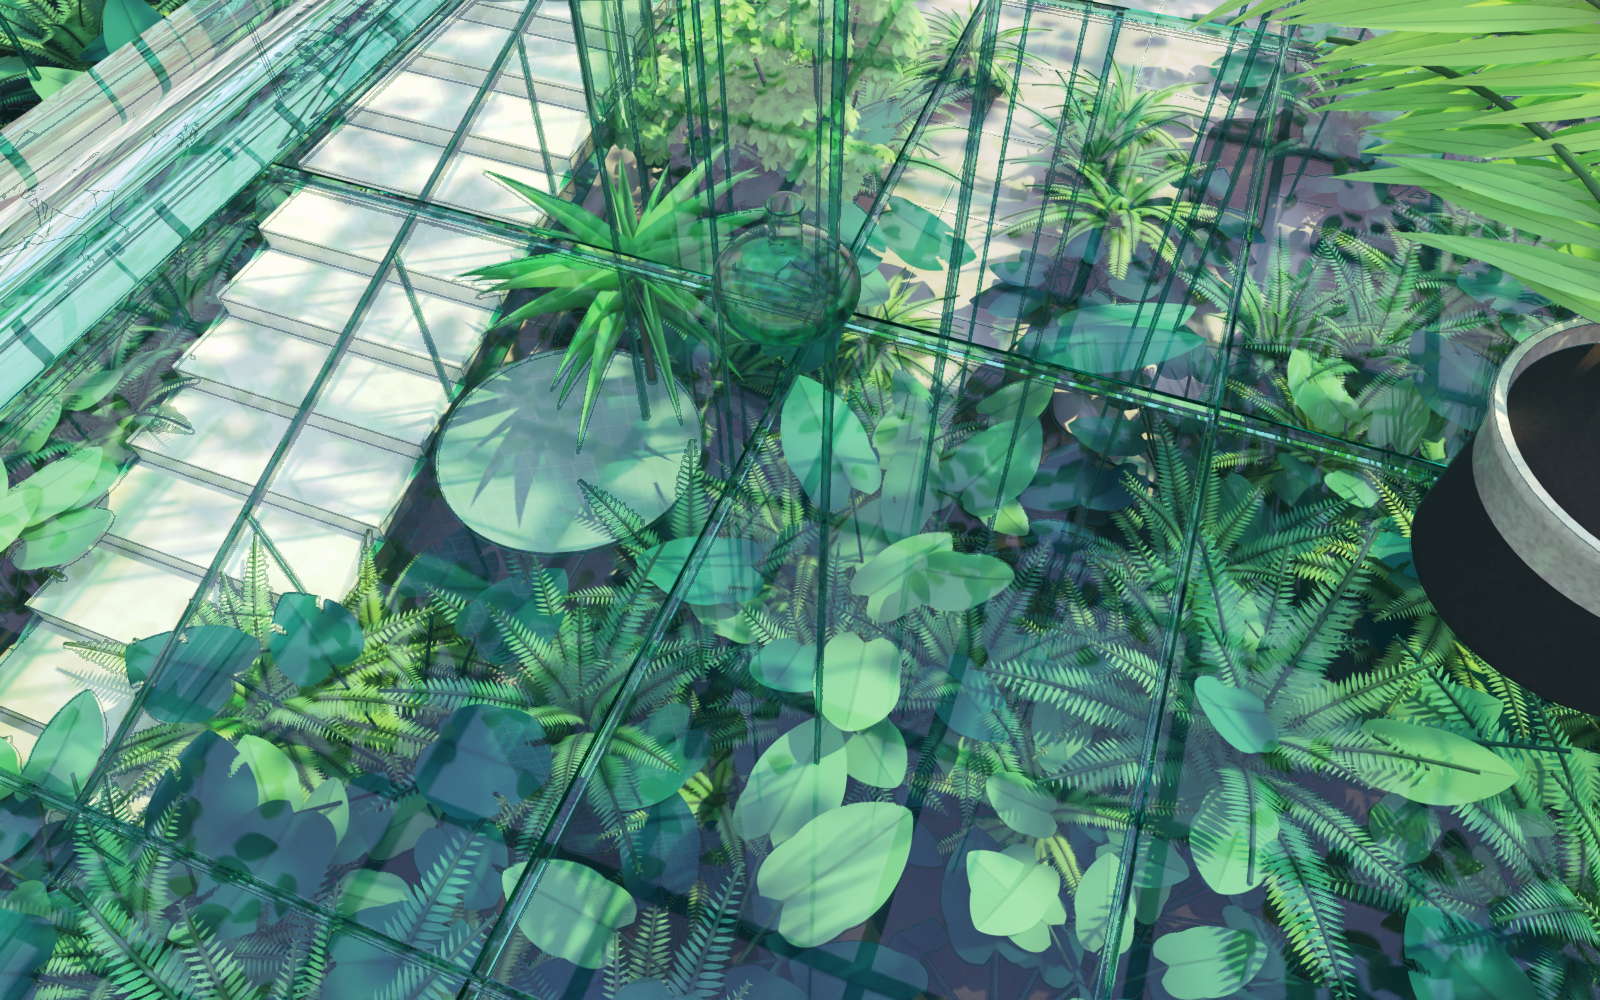
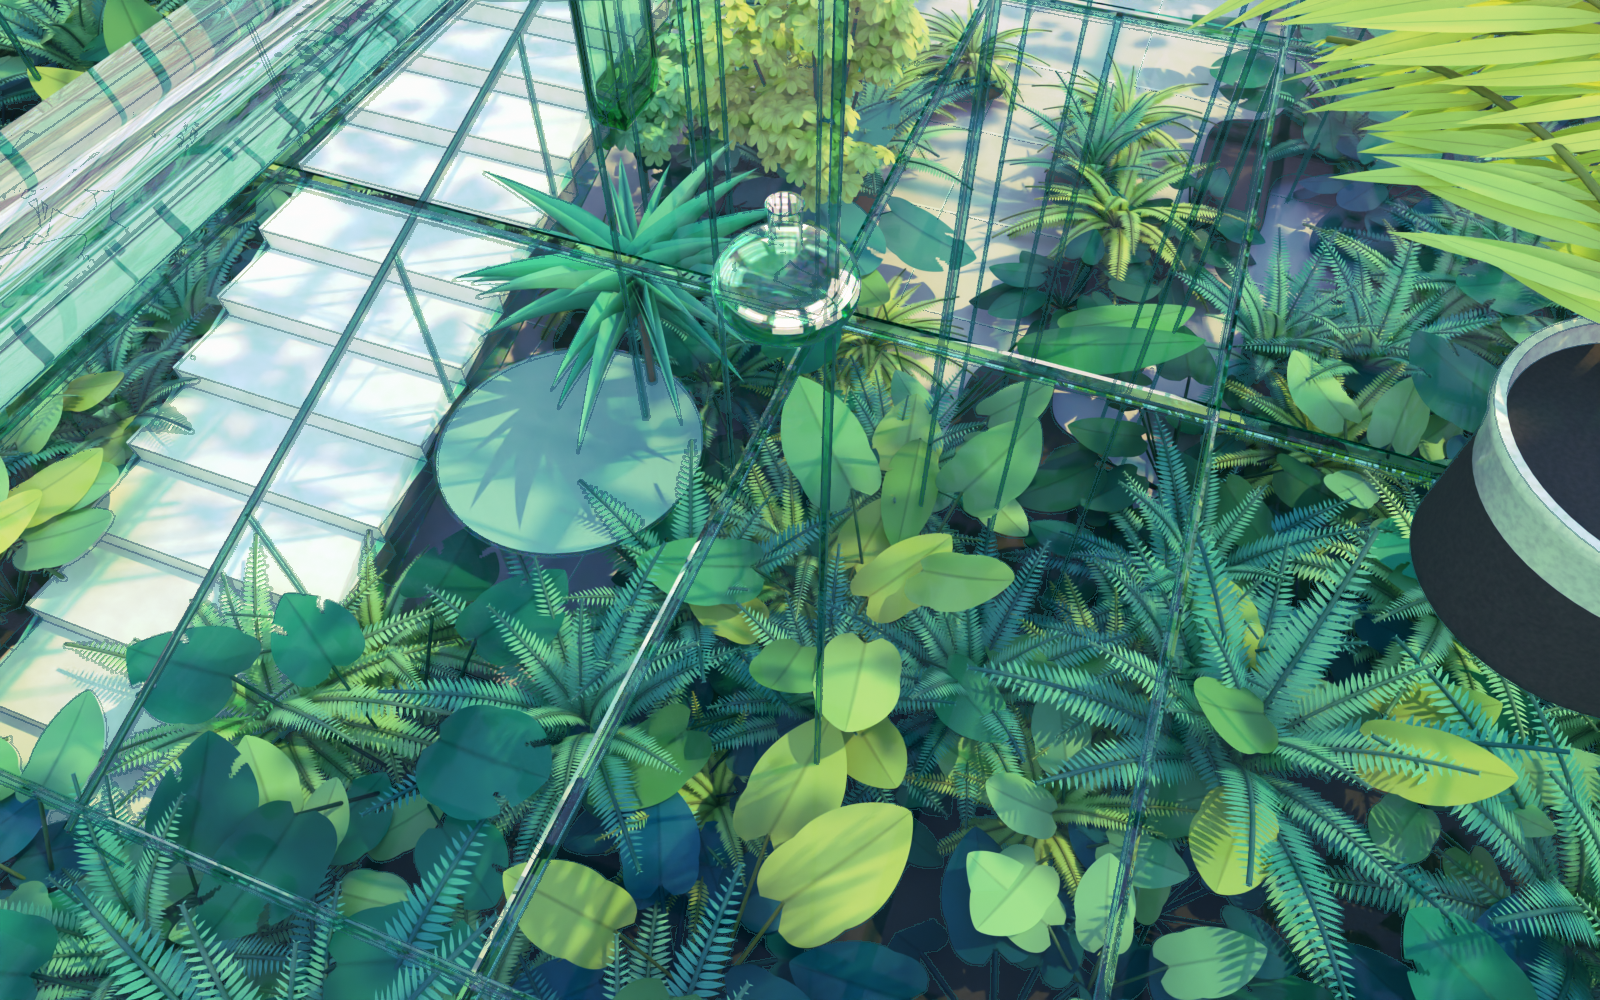
玻璃中庭：向阳黄绿叶与器皿光泽版全分辨率重渲与说明

diff --git a/Other/Greenhouse/Scenes/GlassAtrium/README.md b/Other/Greenhouse/Scenes/GlassAtrium/README.md
@@ -195,11 +195,16 @@ blender -b -P Other/Greenhouse/Scenes/GlassAtrium/calibration/layout_search.py -
 | 指标 | 值 |
 |------|----|
 | 结构线对齐（玻璃框架与楼梯的轮廓，逐像素到原画边缘的距离） | 中位数 2.2 px；2 px 内 47.0%，4 px 内 65.0%，8 px 内 86.3% |
-| 逐像素平均绝对误差（sRGB 0–1） | 0.180 |
-| 色调误差（1/60 画宽高斯模糊后，只看颜色与明暗分布） | 0.080 |
-| 分带分位数误差（五条横带各自从暗部到高光的 CIELAB 分布） | 0.051 |
-| 模糊后色差 ΔE*ab | 中位数 12.5，90% 分位 25.0 |
-| 标定历程（色调误差） | 初版 0.178 → 远景烟霭 0.122 → 灯光反解 0.114 → 玻璃对漫射光透明、日光组、分带色阶 0.109 → 种植图先验土面、屋顶藤蔓日影、烟霭粉色环境光、散尾葵背向机位、方瓶内腔修正 0.088 → 金黄阳光、城市地面铺到 6 km、薄玻璃反弹上限、吊球石床 0.086 → 布局搜索（种子、挪动、朝向、尺寸、日向）、墨线按画面线宽、方瓶穹顶肩、封闭踏步，玻璃改为数据行（翡翠玻璃框架、晶质器皿色散、不镀膜反射）、按目标选强度的调色 0.080 |
+| 逐像素平均绝对误差（sRGB 0–1） | 0.181 |
+| 色调误差（1/60 画宽高斯模糊后，只看颜色与明暗分布） | 0.084 |
+| 分带分位数误差（五条横带各自从暗部到高光的 CIELAB 分布） | 0.044 |
+| 植物的亮度分布（L 的 10/25/50/75/90% 分位，四分之一尺寸） | 30/42/56/71/81，原画 27/37/52/72/85；L > 70 的向阳叶 26%，原画 27% |
+| 模糊后色差 ΔE*ab | 中位数 13.1，90% 分位 24.8 |
+| 标定历程（色调误差） | 初版 0.178 → 远景烟霭 0.122 → 灯光反解 0.114 → 玻璃对漫射光透明、日光组、分带色阶 0.109 → 种植图先验土面、屋顶藤蔓日影、烟霭粉色环境光、散尾葵背向机位、方瓶内腔修正 0.088 → 金黄阳光、城市地面铺到 6 km、薄玻璃反弹上限、吊球石床 0.086 → 布局搜索（种子、挪动、朝向、尺寸、日向）、墨线按画面线宽、方瓶穹顶肩、封闭踏步，玻璃改为数据行（翡翠玻璃框架、晶质器皿色散、不镀膜反射）、按目标选强度的调色 0.080 → 器皿反射探针、厚壁瓶绿方瓶、烟霭只作背景、向阳叶逐株拟合色相、暖日光 0.084 |
 
-剩余差异：逐片叶子的构成（手绘植物的位置与轮廓无法从单张画面唯一确定）；原画阳光下的叶子更黄更亮，烧瓶和吊球上
-有大块的粉白反光；手绘的高光笔触和光柱强度。
+最后一步有意用色调误差换颜色：烟霭不再当环境光、向阳叶子换成原画的黄绿以后，画面的亮暗和色相分布贴近原画（分带误差
+0.051 → 0.044，植物里 L > 70 的向阳叶 22% → 26%，原画 27%），但这些更亮的黄叶、更深的阴影和原画的笔触不会逐片对齐，
+逐像素和模糊后的误差就略升（0.080 → 0.084）——平光才最省这类误差（见第 5 节）。
+
+剩余差异：逐片叶子的构成（手绘植物的位置与轮廓无法从单张画面唯一确定）；原画里近处的散尾葵一半在阴影里，渲染里它
+整株向阳；手绘的高光笔触和光柱强度。
